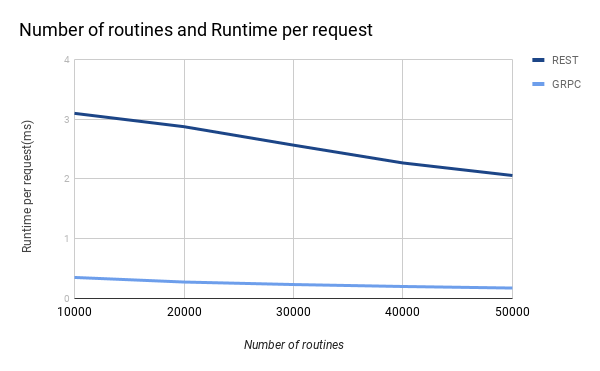
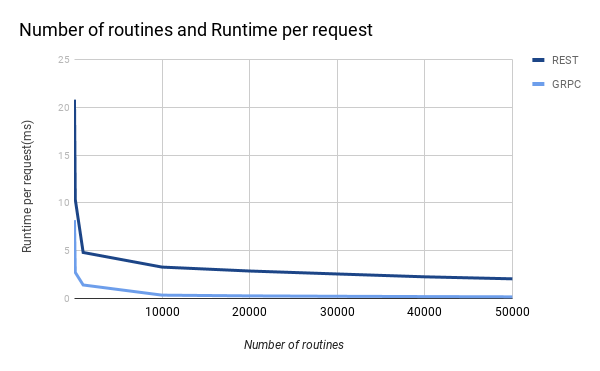
update: add new graph and update readme

diff --git a/gRPC/answer_a.js b/gRPC/answer_a.js
@@ -5,14 +5,6 @@ var booksProto = grpc.load('books.proto');
 var client = new booksProto.books.BookService('127.0.0.1:50051', 
   grpc.credentials.createInsecure());
 
-client.list({}, function(error, books) {
-  if (error)
-    console.log('Error: ', error);
-  else
-    console.log(books);
-});
-
-
 function printResponse(error, response) {
     if (error)
       console.log('Error: ', error);
@@ -42,7 +34,7 @@ const batchInsert = async arguments => {
 
 function test1(){
 
-    var testSet = [10000, 20000, 30000, 40000, 50000]
+    var testSet = [1, 10, 100 , 1000, 10000, 20000, 30000, 40000, 50000]
 
     // var result = {}
 
@@ -60,6 +52,9 @@ function test1(){
     })
 }
 
+
+var processName = process.argv.shift();
+var scriptName = process.argv.shift();
 var command = process.argv.shift();
 
 if (command == 'test') {

diff --git a/RESTAPI/answer_a.js b/RESTAPI/answer_a.js
@@ -25,7 +25,7 @@ const batchInsert = async arguments => {
 
 function test1(){
 
-    var testSet = [10000, 20000, 30000, 40000, 50000]
+    var testSet = [1, 10, 100 , 1000, 10000, 20000, 30000, 40000, 50000]
 
     // var result = {}
 
@@ -43,6 +43,8 @@ function test1(){
     })
 }
 
+var processName = process.argv.shift();
+var scriptName = process.argv.shift();
 var command = process.argv.shift();
 
 if (command == 'test') {

diff --git a/README.md b/README.md
@@ -12,7 +12,7 @@ Software Architecture assignment 2
 ## 1. Graph showing the benchmarking results with the explanation of your experimental settings.
 
 #### a. Single client with a small call to insert a book item, a bigger call to insert a list of multiple book items.
-เราทำการเรียก insert book เป็นชุด 5 ชุด โดยแต่ละชุดจะยิงเป็นชุดละ [10000, 20000, 30000, 40000, 50000] แบบไม่ต้องรอให้ตัวก่อนหน้าเสร็จ แล้วสังเกตเวลาที่ใช้ไปต่อ 1 request ของแต่ละชุดการยิง
+เราทำการเรียก insert book เป็นชุด 5 ชุด โดยแต่ละชุดจะยิงเป็นชุดละ [10, 100, 1000, 10000, 20000, 30000, 40000, 50000] แบบไม่ต้องรอให้ตัวก่อนหน้าเสร็จ แล้วสังเกตเวลาที่ใช้ไปต่อ 1 request ของแต่ละชุดการยิง
 
 ![alt text](https://github.com/2110521-2563-1-Software-Architecture/four-guys-one-cup-assignment2/blob/master/resources/chart-a.png)
 
